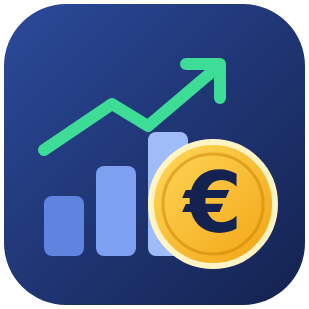
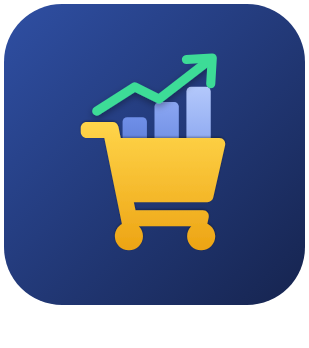
docs(jeemarket): modale Suivi GitHub, alerte changelog et nouvelle icône (16/11/2026)

diff --git a/plugin-jeemarket/fr_FR/index.md b/plugin-jeemarket/fr_FR/index.md
@@ -75,9 +75,18 @@ Vos branches peuvent porter **d'autres noms** (`dev`, `develop`, `master`, `main
 
 **Utilisation** : à l'ouverture, la modale **GitHub** analyse chaque plugin avec votre jeton (bouton **Analyser** pour recommencer). Colonnes : branche de développement, **bêta** et **stable** (dernier commit sur GitHub), avec pour bêta et stable l'état du Market (**à jour**, ou commit **pas encore repris**), et pour chaque branche le nombre de **commits à promouvoir** vers la suivante. Le lien **À quoi sert cette fenêtre ?** rappelle le rôle de chaque élément.
 
-Chaque plugin a deux boutons **→ bêta** et **→ stable** (au nom de vos branches), actifs seulement s'il y a des commits à promouvoir et un droit d'écriture. Un clic affiche d'abord un **aperçu** : nombre de commits et de fichiers, liste des commits, lien de comparaison GitHub et alertes (droit d'écriture manquant, branche protégée, commits présents sur la cible mais absents de la source, fichiers de workflow modifiés). Après confirmation, le plugin fusionne **exactement le commit affiché** dans la branche cible. Le passage en **stable** demande en plus de taper l'id du plugin.
+Chaque plugin a deux boutons **→ bêta** et **→ stable** (au nom de vos branches), actifs seulement s'il y a des commits à promouvoir et un droit d'écriture. Un clic affiche d'abord un **aperçu** : nombre de commits et de fichiers, liste des commits, lien de comparaison GitHub et alertes (droit d'écriture manquant, branche protégée, commits présents sur la cible mais absents de la source, fichiers de workflow modifiés, **aucun changelog** modifié par les commits à promouvoir). Après confirmation, le plugin fusionne **exactement le commit affiché** dans la branche cible. Le passage en **stable** demande en plus de taper l'id du plugin.
 
 En cas de **conflit**, rien n'est modifié : fusionnez en local (`git merge`), résolvez le conflit et poussez. Le Market reprend la nouvelle version à son scan quotidien ; le bouton **Forcer MAJ** reste réservé aux urgences. Chaque promotion est tracée en `warning` dans le log `jeemarket`.
+
+#### 5 bis (fin) - Modale « Suivi GitHub » (option)
+Bouton **Suivi GitHub** de la page du plugin (ou icône presse-papiers coché de la barre de l'équipement), affiché seulement si les fonctions GitHub sont activées. Vue d'ensemble de tous vos dépôts, **en lecture seule** (rien n'est modifié sur GitHub), avec votre jeton : une requête GraphQL par lot de 10 plugins, analyse lancée à l'ouverture (bouton **Analyser** pour recommencer).
+
+- **CI** des branches développement, bêta et stable : résultat des actions GitHub (et statuts externes) sur le dernier commit de chaque branche (**OK**, **échec**, **en cours**, **aucune CI**) avec le nombre de jobs réussis ; un clic sur le badge déplie la liste des jobs avec un lien vers chacun ;
+- **Issues** et **PR** ouvertes (hors Dependabot), **Dependabot** : PR ouvertes par Dependabot / alertes de sécurité ouvertes ; chaque compteur ouvre la page GitHub correspondante ;
+- champ **Rechercher** et case **Seulement les plugins à traiter** (CI en échec ou en cours, issue, PR, alerte, dépôt inaccessible).
+
+Permissions du jeton (lecture) selon les informations voulues : **Commit statuses** et **Actions** (CI), **Issues**, **Pull requests**, **Dependabot alerts**. Une information refusée par le jeton s'affiche **n/d** sans bloquer les autres.
 
 #### 5 ter - Modale « Mes boxs »
 Boxs enregistrées sur votre compte Market (URL, IP, version, dernière synchronisation), service pack et état des services, et état public des services Jeedom (status.jeedom.com).

diff --git a/plugin-jeemarket/fr_FR/changelog.md b/plugin-jeemarket/fr_FR/changelog.md
@@ -11,6 +11,12 @@ pluginId: jeemarket
 >
 >Pour rappel s'il n'y a pas d'information sur la mise à jour, c'est que celle-ci concerne uniquement de la mise à jour de documentation, de traduction ou de texte.
 
+# 16/11/2026
+
+- Nouvelle modale **Suivi GitHub** (option GitHub, lecture seule) : pour chaque plugin, résultat de la **CI** sur les branches développement, bêta et stable (détail des jobs), **issues** et **PR** ouvertes, **PR Dependabot** et **alertes de sécurité**, avec liens vers GitHub, recherche et filtre « à traiter ». Suggestion de la communauté
+- Modale **GitHub** : l'aperçu de promotion signale quand **aucun changelog** n'est modifié par les commits à promouvoir
+- Nouvelle icône du plugin (panier du Market, sans symbole monétaire)
+
 # 12/11/2026
 
 - Bouton **Historique** sur l'équipement : reconstitue l'**historique mensuel des gains** depuis toutes les ventes du Market (gain du mois, gain de l'année, cumul via la commande **Gains cumulés**, et par plugin). Un point par mois ; ré-exécutable sans doublon. La purge d'historique est désactivée sur ces commandes pour garder les points anciens
